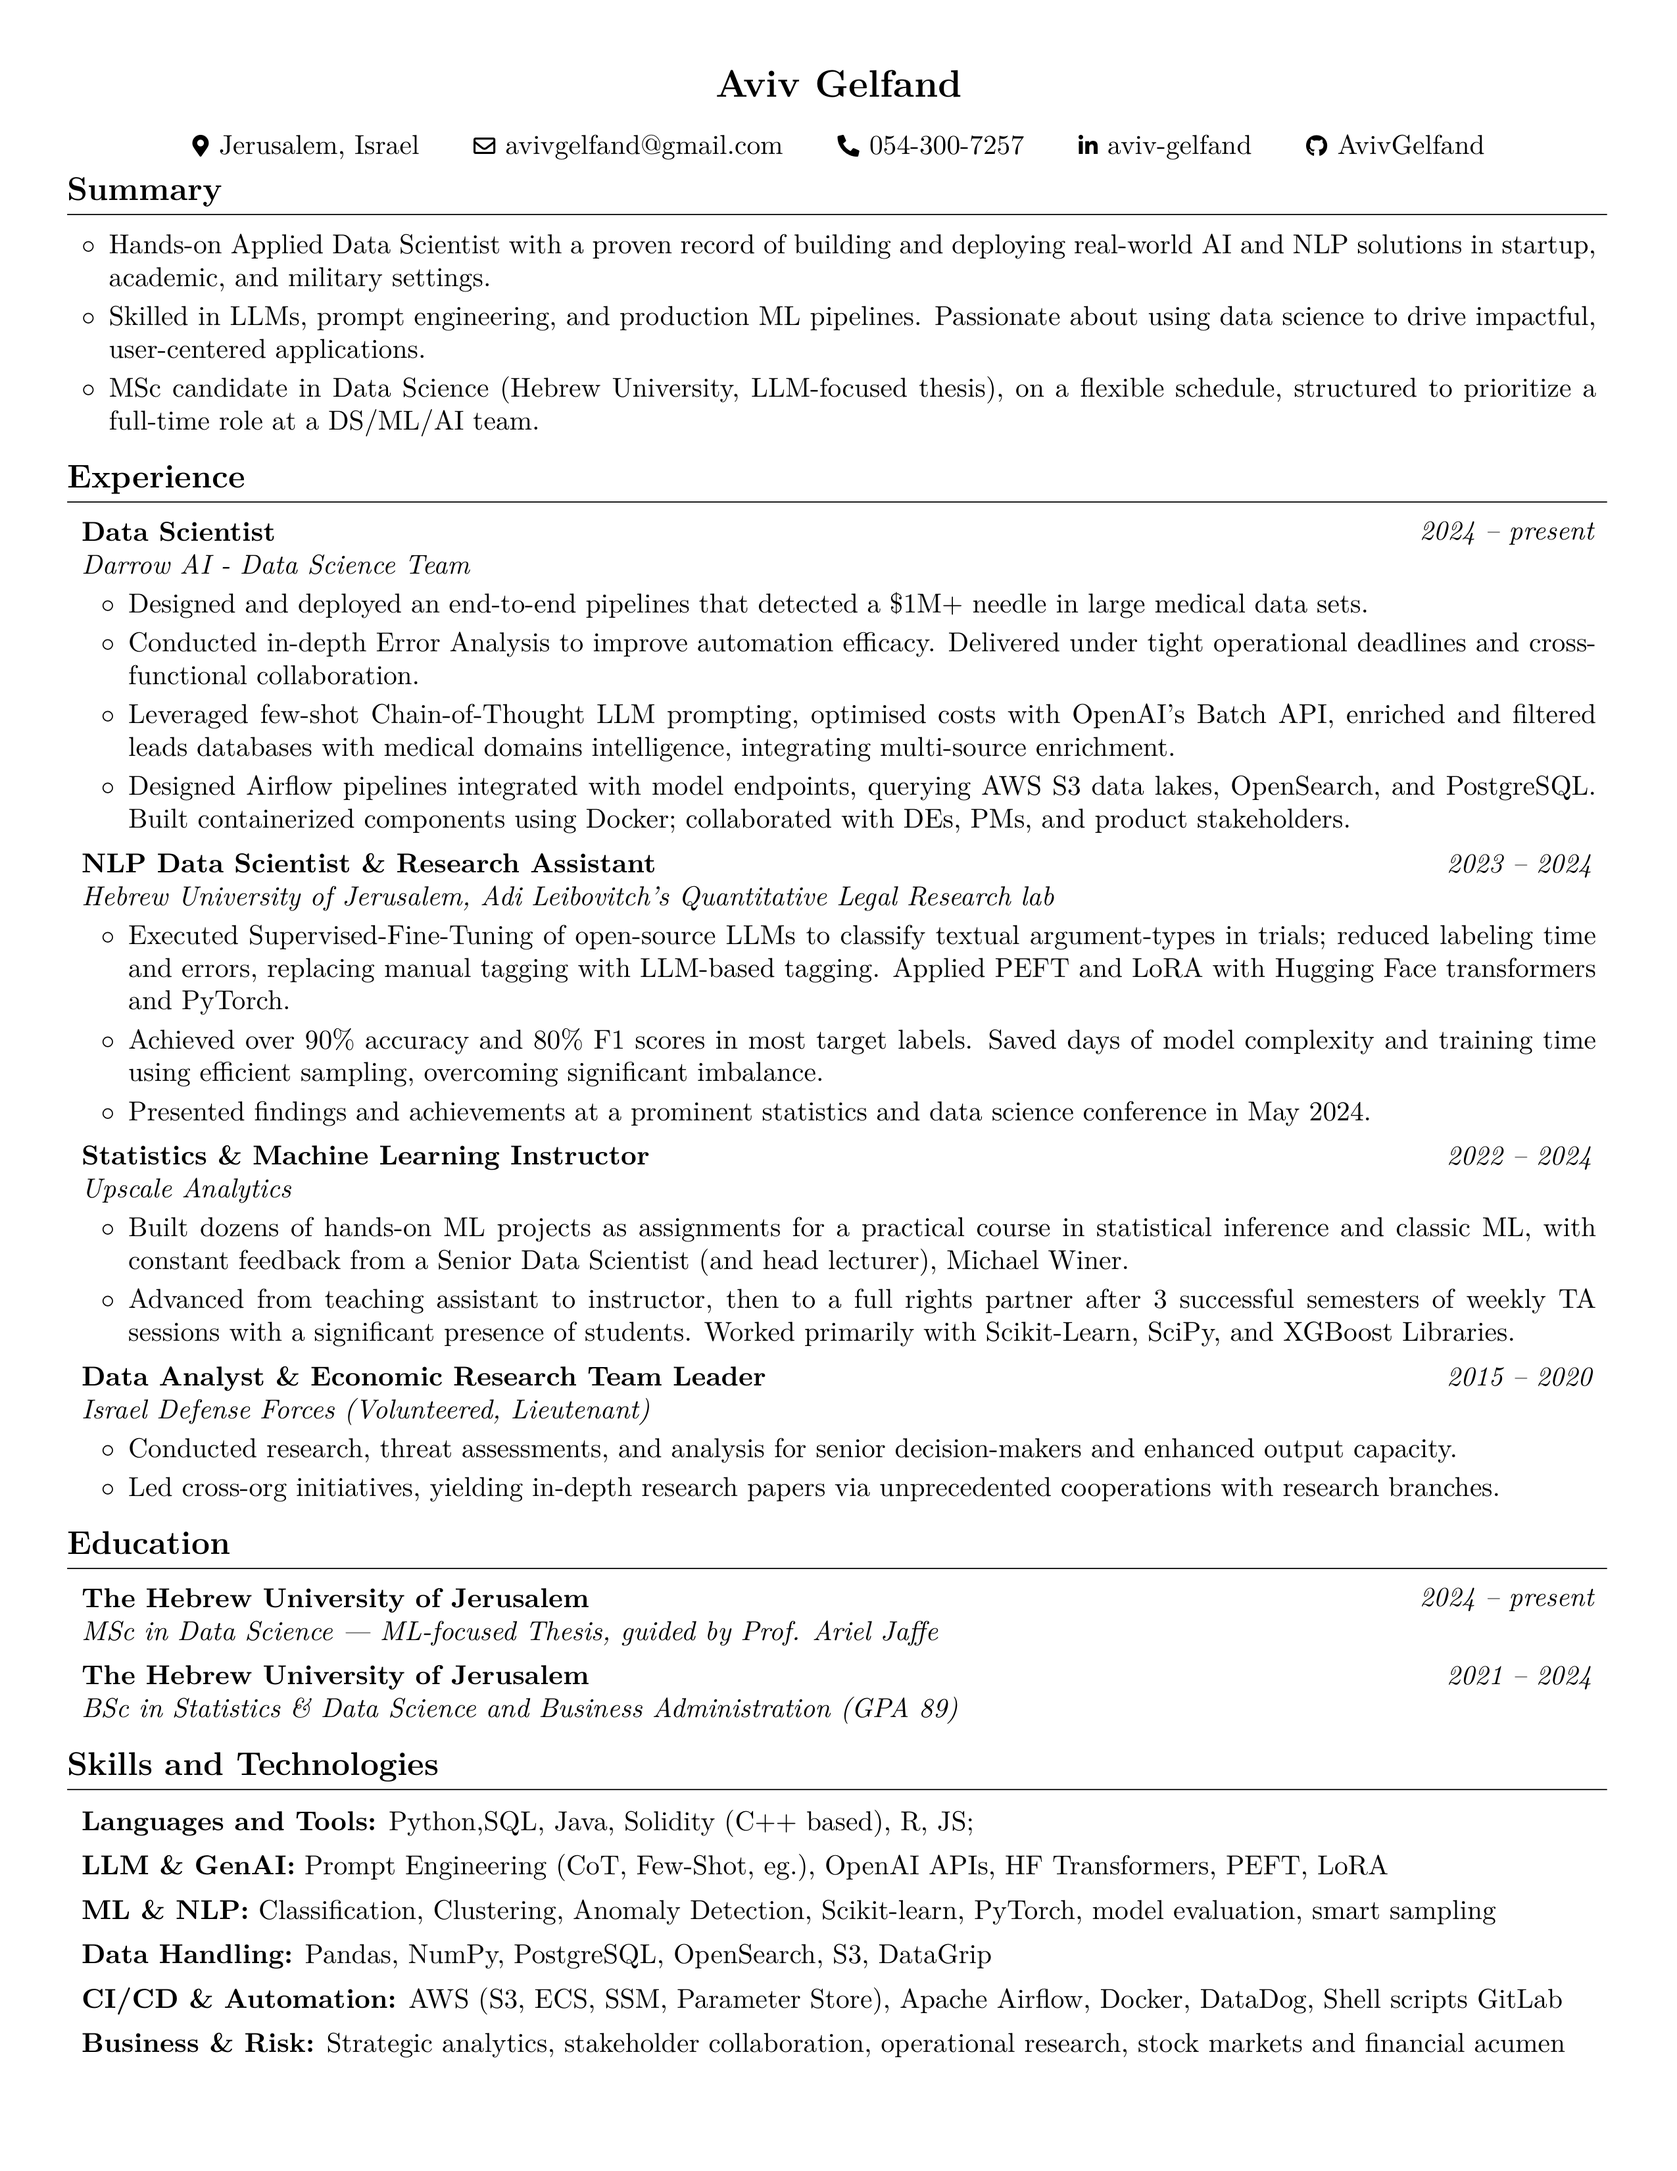
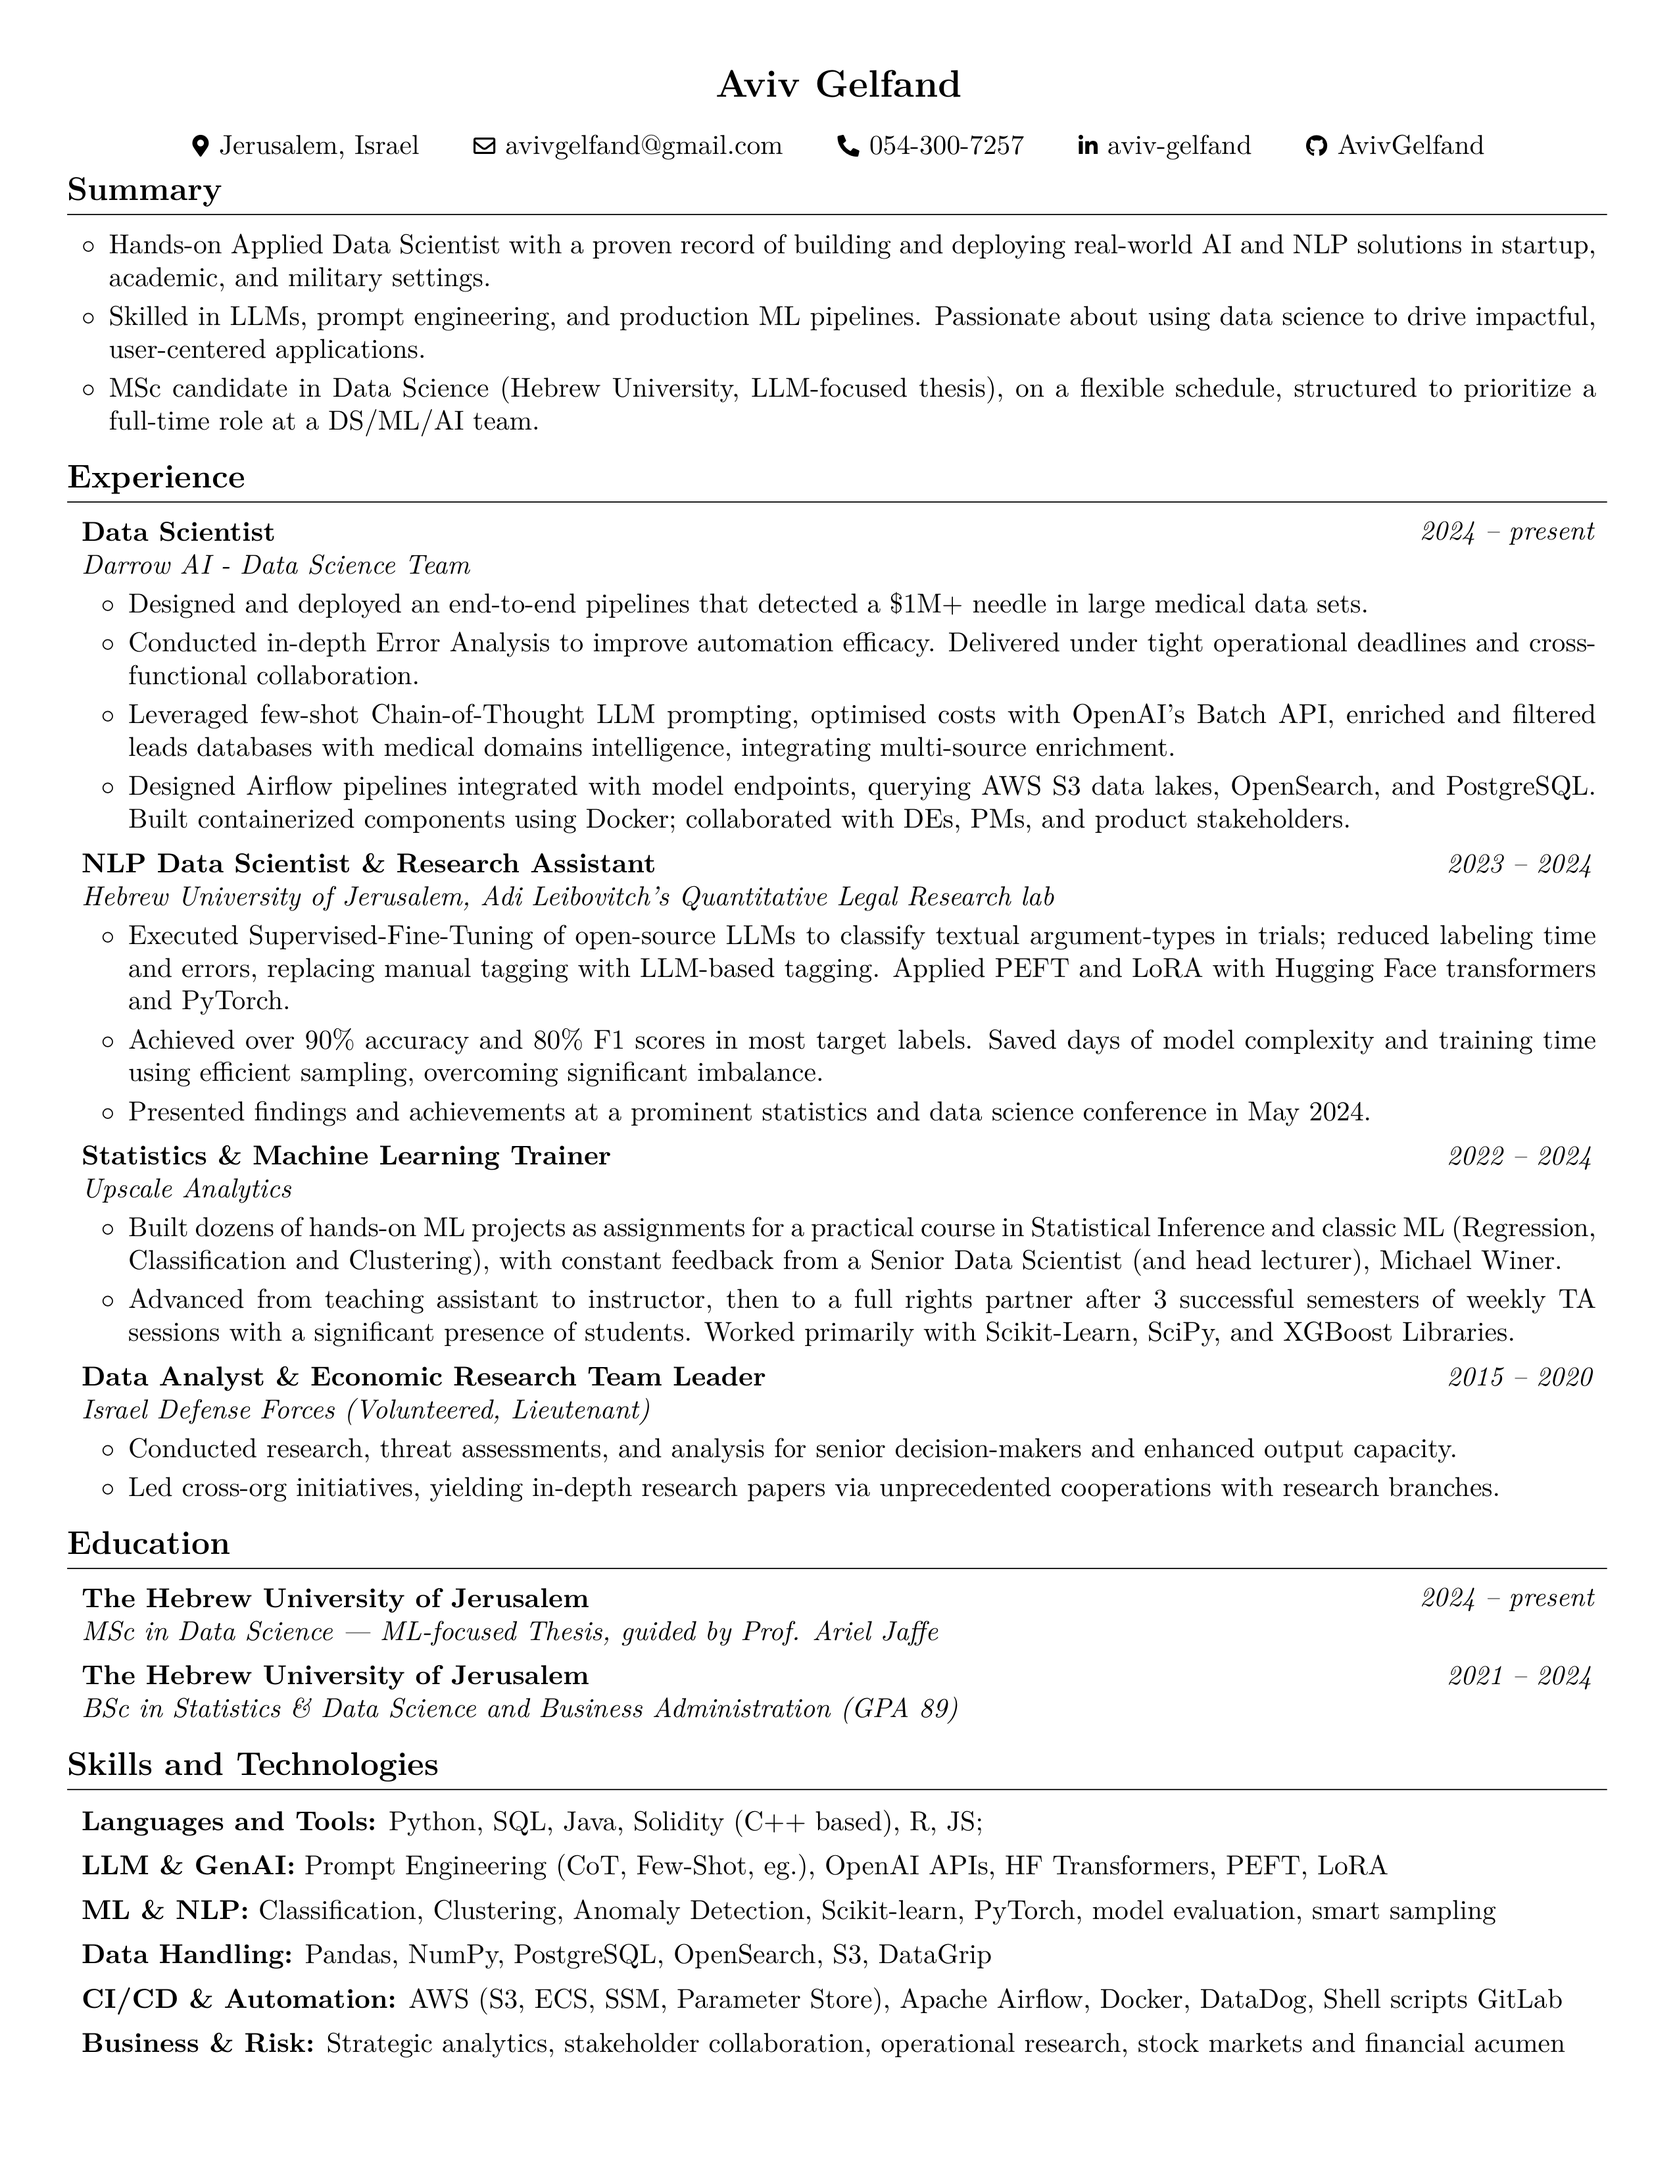
Render the latest CV

Changed region(s): [[0.0929, 0.5306, 0.9294, 0.593], [0.4957, 0.8115, 0.5267, 0.8427], [0.3718, 0.8115, 0.4027, 0.8427]]

diff --git a/Aviv_Gelfand_CV.html b/Aviv_Gelfand_CV.html
@@ -62,10 +62,10 @@
         <li>Achieved over 90% accuracy and 80% F1 scores in most target labels. Saved days of model complexity and training time using efficient sampling, overcoming significant imbalance.</li>
         <li>Presented findings and achievements at a prominent statistics and data science conference in May 2024.</li>
         </ul>
-        <h2>Upscale Analytics, Statistics &amp; Machine Learning Instructor</h2>
+        <h2>Upscale Analytics, Statistics &amp; Machine Learning Trainer</h2>
         <ul>
         <li>2022 – 2024</li>
-        <li>Built dozens of hands-on  ML projects as assignments for a practical course in statistical inference and classic ML, with constant feedback from a Senior Data Scientist (and head lecturer), Michael Winer.</li>
+        <li>Built dozens of hands-on ML projects as assignments for a practical course in Statistical Inference and classic ML (Regression, Classification and Clustering), with constant feedback from a Senior Data Scientist (and head lecturer), Michael Winer.</li>
         <li>Advanced from teaching assistant to instructor, then to a full rights partner after 3 successful semesters of weekly TA sessions with a significant presence of students. Worked primarily with Scikit-Learn, SciPy, and XGBoost Libraries.</li>
         </ul>
         <h2>Israel Defense Forces (Volunteered, Lieutenant), Data Analyst &amp; Economic Research Team Leader</h2>
@@ -85,7 +85,7 @@
         </ul>
         <h1>Skills and Technologies</h1>
         <ul>
-        <li>Languages and Tools: Python,SQL, Java, Solidity (C++ based), R, JS;</li>
+        <li>Languages and Tools: Python, SQL, Java, Solidity (C++ based), R, JS;</li>
         <li>LLM &amp; GenAI: Prompt Engineering (CoT, Few-Shot, eg.), OpenAI APIs, HF Transformers, PEFT, LoRA</li>
         <li>ML &amp; NLP: Classification, Clustering, Anomaly Detection, Scikit-learn, PyTorch, model evaluation, smart sampling</li>
         <li>Data Handling: Pandas, NumPy, PostgreSQL, OpenSearch, S3, DataGrip</li>

diff --git a/Aviv_Gelfand_CV.tex b/Aviv_Gelfand_CV.tex
@@ -243,7 +243,7 @@
             
             
         \textit{2022 – 2024}}
-            \textbf{Statistics \& Machine Learning Instructor}
+            \textbf{Statistics \& Machine Learning Trainer}
             
             \textit{Upscale Analytics}
         \end{twocolentry}
@@ -251,7 +251,7 @@
         \vspace{0.08 cm}
         \begin{onecolentry}
             \begin{highlights}
-                \item Built dozens of hands-on  ML projects as assignments for a practical course in statistical inference and classic ML, with constant feedback from a Senior Data Scientist (and head lecturer), Michael Winer.
+                \item Built dozens of hands-on ML projects as assignments for a practical course in Statistical Inference and classic ML (Regression, Classification and Clustering), with constant feedback from a Senior Data Scientist (and head lecturer), Michael Winer.
                 \item Advanced from teaching assistant to instructor, then to a full rights partner after 3 successful semesters of weekly TA sessions with a significant presence of students. Worked primarily with Scikit-Learn, SciPy, and XGBoost Libraries.
             \end{highlights}
         \end{onecolentry}
@@ -316,7 +316,7 @@
 
         
         \begin{onecolentry}
-            \textbf{Languages and Tools:} Python,SQL, Java, Solidity (C++ based), R, JS;
+            \textbf{Languages and Tools:} Python, SQL, Java, Solidity (C++ based), R, JS;
         \end{onecolentry}
 
         \vspace{0.15 cm}

diff --git a/README.md b/README.md
@@ -31,10 +31,10 @@
 - Achieved over 90% accuracy and 80% F1 scores in most target labels. Saved days of model complexity and training time using efficient sampling, overcoming significant imbalance.
 - Presented findings and achievements at a prominent statistics and data science conference in May 2024.
 
-## Upscale Analytics, Statistics & Machine Learning Instructor
+## Upscale Analytics, Statistics & Machine Learning Trainer
 
 - 2022 – 2024
-- Built dozens of hands-on  ML projects as assignments for a practical course in statistical inference and classic ML, with constant feedback from a Senior Data Scientist (and head lecturer), Michael Winer.
+- Built dozens of hands-on ML projects as assignments for a practical course in Statistical Inference and classic ML (Regression, Classification and Clustering), with constant feedback from a Senior Data Scientist (and head lecturer), Michael Winer.
 - Advanced from teaching assistant to instructor, then to a full rights partner after 3 successful semesters of weekly TA sessions with a significant presence of students. Worked primarily with Scikit-Learn, SciPy, and XGBoost Libraries.
 
 ## Israel Defense Forces (Volunteered, Lieutenant), Data Analyst & Economic Research Team Leader
@@ -55,7 +55,7 @@
 
 # Skills and Technologies
 
-- Languages and Tools: Python,SQL, Java, Solidity (C++ based), R, JS;
+- Languages and Tools: Python, SQL, Java, Solidity (C++ based), R, JS;
 - LLM & GenAI: Prompt Engineering (CoT, Few-Shot, eg.), OpenAI APIs, HF Transformers, PEFT, LoRA
 - ML & NLP: Classification, Clustering, Anomaly Detection, Scikit-learn, PyTorch, model evaluation, smart sampling
 - Data Handling: Pandas, NumPy, PostgreSQL, OpenSearch, S3, DataGrip
